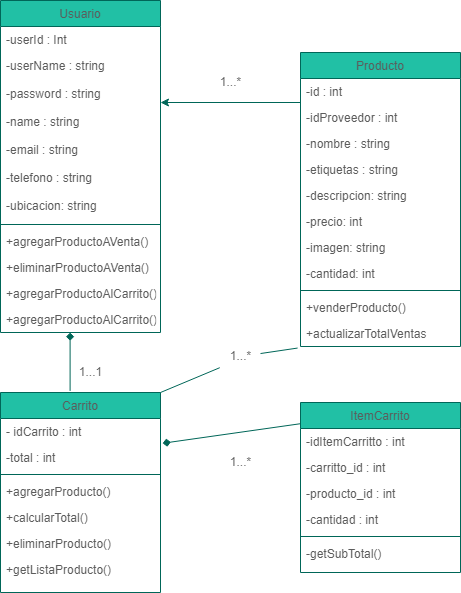
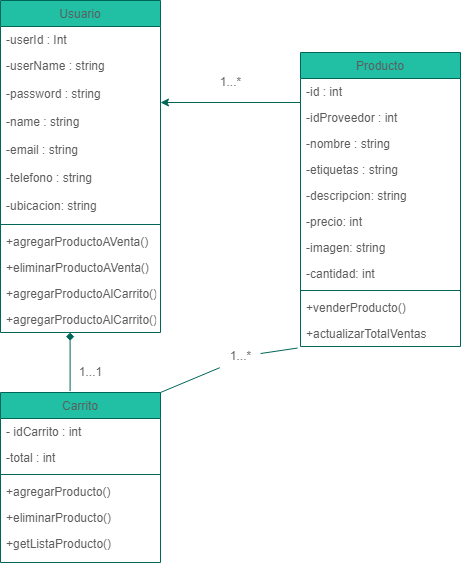
Controller para el Carrito creado. Y se elimino la Entidad ItemCarrito.

diff --git a/tienda-BackEnd/src/main/java/com/mi_tec/tiendaBackEnd/Service/ImpCarrito.java b/tienda-BackEnd/src/main/java/com/mi_tec/tiendaBackEnd/Service/ImpCarrito.java
@@ -1,62 +1,66 @@
 package com.mi_tec.tiendaBackEnd.Service;
 
 import com.mi_tec.tiendaBackEnd.Entity.ECarrito;
-import com.mi_tec.tiendaBackEnd.Entity.EItemCarrito;
 import com.mi_tec.tiendaBackEnd.Entity.EProducto;
 import com.mi_tec.tiendaBackEnd.Entity.EUsuario;
 import com.mi_tec.tiendaBackEnd.InterfaceS.ICarritoService;
 import com.mi_tec.tiendaBackEnd.Repository.ICarrito;
+import com.mi_tec.tiendaBackEnd.Repository.IProducto;
 import com.mi_tec.tiendaBackEnd.Repository.IUsuario;
 import java.util.List;
-import java.util.Optional;
-import javax.transaction.Transactional;
 import org.springframework.beans.factory.annotation.Autowired;
 import org.springframework.stereotype.Service;
 
 @Service
-@Transactional
 public class ImpCarrito implements ICarritoService{
+    
     @Autowired
-    private ICarrito carritoRepo;
+    private ICarrito carritoRepository;
+    
     @Autowired
-    private IUsuario usuarioRepo;
-
-    @Transactional
-    @Override
-    public void eliminarProductoDelCarrito(Long id_usuario, Long id_producto) {
-        Optional<EUsuario> usuarioOptional = usuarioRepo.findById(id_usuario);
-        if(usuarioOptional.isPresent()) {
-            EUsuario usuario = usuarioOptional.get();
-            List<EProducto> productos = usuario.getProductos();
-            Optional<EProducto> productoOptional = productos.stream()
-                .filter(producto -> producto.getId_producto().equals(id_producto))
-                .findFirst();
-            if(productoOptional.isPresent()) {
-                EProducto producto = productoOptional.get();
-                productos.remove(producto);
-                usuario.setProductos(productos);
-                usuarioRepo.save(usuario);
-            }
-        }
-    }
+    private IProducto productoRepository;
+    
+    @Autowired
+    private IUsuario usuarioRepository;
     
     @Override
-    public ECarrito obtenerCarritoPorId(Long id) {
-        return carritoRepo.findById(id).orElse(null);
+    public void crearCarrito(EUsuario usuario) {
+        ECarrito carrito = new ECarrito();
+        carrito.setUsuario(usuario);
+        carritoRepository.save(carrito);
     }
-
+    
+    // Método para agregar un producto al carrito
     @Override
-    public void agregarProductoAlCarrito(Long idCarrito, EProducto producto, Integer cantidad) {
-     ECarrito carrito = obtenerCarritoPorId(idCarrito);
-        List<EItemCarrito> items = carrito.getItems();
-        for (EItemCarrito item : items) {
-            if (item.getProducto().getId_producto().equals(producto.getId_producto())) {
-                item.setCantidad(item.getCantidad() + cantidad);
-                return;
-            }
-        } 
-        EItemCarrito nuevoItem = new EItemCarrito(carrito,producto, cantidad);
-        nuevoItem.setCarrito(carrito);
-        items.add(nuevoItem);
+    public void agregarProducto(Long idCarrito, Long idProducto) {
+        ECarrito carrito = carritoRepository.findById(idCarrito).orElseThrow(() -> new RuntimeException("Carrito no encontrado"));
+        EProducto producto = productoRepository.findById(idProducto).orElseThrow(() -> new RuntimeException("Producto no encontrado"));
+        
+        carrito.agregarProducto(producto);
+        carritoRepository.save(carrito);
+    }
+    
+    // Método para eliminar un producto del carrito
+    @Override
+    public void eliminarProducto(Long idCarrito, Long idProducto) {
+        ECarrito carrito = carritoRepository.findById(idCarrito).orElseThrow(() -> new RuntimeException("Carrito no encontrado"));
+        EProducto producto = productoRepository.findById(idProducto).orElseThrow(() -> new RuntimeException("Producto no encontrado"));
+        
+        carrito.eliminarProducto(producto);
+        carritoRepository.save(carrito);
+    }
+    
+    // Método para obtener los productos del carrito
+    @Override
+    public List<EProducto> getProductos(Long idCarrito) {
+        ECarrito carrito = carritoRepository.findById(idCarrito).orElseThrow(() -> new RuntimeException("Carrito no encontrado"));
+        return carrito.getProductos();
+    }
+    
+    // Método para obtener el carrito de un usuario
+    @Override
+    public ECarrito getCarritoByUsuario(Long idUsuario) {
+        EUsuario usuario = usuarioRepository.findById(idUsuario).orElseThrow(() -> new RuntimeException("Usuario no encontrado"));
+        return usuario.getCarrito();
     }
 }

diff --git a/tienda-BackEnd/src/main/java/com/mi_tec/tiendaBackEnd/Controller/CarritoController.java b/tienda-BackEnd/src/main/java/com/mi_tec/tiendaBackEnd/Controller/CarritoController.java
@@ -1,0 +1,54 @@
+package com.mi_tec.tiendaBackEnd.Controller;
+
+import com.mi_tec.tiendaBackEnd.Entity.ECarrito;
+import com.mi_tec.tiendaBackEnd.Entity.EProducto;
+import com.mi_tec.tiendaBackEnd.InterfaceS.ICarritoService;
+import java.util.List;
+import org.springframework.beans.factory.annotation.Autowired;
+import org.springframework.http.HttpStatus;
+import org.springframework.http.ResponseEntity;
+import org.springframework.web.bind.annotation.CrossOrigin;
+import org.springframework.web.bind.annotation.DeleteMapping;
+import org.springframework.web.bind.annotation.GetMapping;
+import org.springframework.web.bind.annotation.PathVariable;
+import org.springframework.web.bind.annotation.PostMapping;
+import org.springframework.web.bind.annotation.RequestMapping;
+import org.springframework.web.bind.annotation.RestController;
+
+@RestController
+@CrossOrigin
+@RequestMapping("/carrito")
+public class CarritoController {
+    
+    @Autowired
+    private ICarritoService carritoService;
+    
+    // Endpoint para agregar un producto al carrito
+    @PostMapping("/{idCarrito}/productos/{idProducto}")
+    public ResponseEntity<?> agregarProducto(@PathVariable Long idCarrito, @PathVariable Long idProducto) {
+        try {
+            carritoService.agregarProducto(idCarrito, idProducto);
+            return ResponseEntity.ok().build();
+        } catch (Exception e) {
+            return ResponseEntity.status(HttpStatus.INTERNAL_SERVER_ERROR).body("Error al agregar producto al carrito");
+        }
+    }
+    
+    // Endpoint para eliminar un producto del carrito
+    @DeleteMapping("/{idCarrito}/productos/{idProducto}")
+    public ResponseEntity<?> eliminarProducto(@PathVariable Long idCarrito, @PathVariable Long idProducto) {
+        try {
+            carritoService.eliminarProducto(idCarrito, idProducto);
+            return ResponseEntity.ok().build();
+        } catch (Exception e) {
+            return ResponseEntity.status(HttpStatus.INTERNAL_SERVER_ERROR).body("Error al eliminar producto del carrito");
+        }
+    }
+    
+    @GetMapping("/usuario/productos/{idUsuario}")
+    public ResponseEntity<List<EProducto>> getProductosDelCarritoByUsuario(@PathVariable Long idUsuario) {
+        ECarrito carrito = carritoService.getCarritoByUsuario(idUsuario);
+        List<EProducto> productos = carritoService.getProductos(carrito.getId_carrito());
+        return ResponseEntity.ok(productos);
+    }
+}

diff --git a/tienda-BackEnd/src/main/java/com/mi_tec/tiendaBackEnd/Entity/ECarrito.java b/tienda-BackEnd/src/main/java/com/mi_tec/tiendaBackEnd/Entity/ECarrito.java
@@ -1,7 +1,7 @@
 package com.mi_tec.tiendaBackEnd.Entity;
+import com.fasterxml.jackson.annotation.JsonIgnore;
 import java.util.ArrayList;
 import java.util.List;
-import javax.persistence.CascadeType;
 import lombok.Getter;
 import lombok.Setter;
 import javax.persistence.Entity;
@@ -10,8 +10,9 @@ import javax.persistence.GeneratedValue;
 import javax.persistence.GenerationType;
 import javax.persistence.Id;
 import javax.persistence.JoinColumn;
-import javax.persistence.ManyToOne;
-import javax.persistence.OneToMany;
+import javax.persistence.JoinTable;
+import javax.persistence.ManyToMany;
+import javax.persistence.OneToOne;
 import javax.persistence.Table;
 
 @Entity
@@ -22,13 +23,26 @@ public class ECarrito {
     @Id
     @GeneratedValue(strategy = GenerationType.IDENTITY)
     private Long id_carrito;
-    
-    @ManyToOne(fetch = FetchType.LAZY)
+
+    @OneToOne(fetch = FetchType.LAZY)
     @JoinColumn(name = "id_usuario")
+    @JsonIgnore
     private EUsuario usuario;
-    
-    @OneToMany(mappedBy = "carrito", cascade = CascadeType.ALL, orphanRemoval = true)
-    private List<EItemCarrito> items = new ArrayList<>();
 
+    @ManyToMany(fetch = FetchType.LAZY)
+    @JoinTable(name = "carrito_productos",
+           joinColumns = @JoinColumn(name = "id_carrito"),
+           inverseJoinColumns = @JoinColumn(name = "id_producto"))
+    private List<EProducto> productos = new ArrayList<>();
+
+    public void agregarProducto(EProducto producto) {
+        this.productos.add(producto);
+    }
+
+    public void eliminarProducto(EProducto producto) {
+        this.productos.remove(producto);
+    }
+    // Constructor vacío
+    public ECarrito() {
+    }
 }
-

diff --git a/tienda-BackEnd/src/main/java/com/mi_tec/tiendaBackEnd/Controller/ProductoController.java b/tienda-BackEnd/src/main/java/com/mi_tec/tiendaBackEnd/Controller/ProductoController.java
@@ -1,7 +1,9 @@
 package com.mi_tec.tiendaBackEnd.Controller;
 
 import com.mi_tec.tiendaBackEnd.Entity.EProducto;
+import com.mi_tec.tiendaBackEnd.Entity.EUsuario;
 import com.mi_tec.tiendaBackEnd.InterfaceS.IProductoService;
+import com.mi_tec.tiendaBackEnd.InterfaceS.IUsuarioService;
 import java.util.List;
 import org.springframework.beans.factory.annotation.Autowired;
 import org.springframework.web.bind.annotation.CrossOrigin;
@@ -11,6 +13,7 @@ import org.springframework.web.bind.annotation.PathVariable;
 import org.springframework.web.bind.annotation.PostMapping;
 import org.springframework.web.bind.annotation.PutMapping;
 import org.springframework.web.bind.annotation.RequestBody;
+import org.springframework.web.bind.annotation.RequestParam;
 import org.springframework.web.bind.annotation.RestController;
 
 @RestController
@@ -18,6 +21,8 @@ import org.springframework.web.bind.annotation.RestController;
 public class ProductoController {
     @Autowired
     IProductoService iProducS;
+    @Autowired
+    IUsuarioService iUserS;
     
     @GetMapping("/productos")
     public List<EProducto> verProductos() {
@@ -32,7 +37,9 @@ public class ProductoController {
         return iProducS.obtenerProductosPorNombre(nombre);
     }
     @PostMapping("/producto/crear")
-    public String crearProduc(@RequestBody EProducto produc) {
+    public String crearProduc(@RequestBody EProducto produc,@RequestParam Long idProveedor) {
+        EUsuario proveedor = iUserS.obtenerUsuarioPorId(idProveedor);
+        produc.setProveedor(proveedor);
         iProducS.crearProducto(produc);
         return "Productos, se creo correctamente.";
     }

diff --git a/tienda-BackEnd/src/main/java/com/mi_tec/tiendaBackEnd/Controller/UsuarioController.java b/tienda-BackEnd/src/main/java/com/mi_tec/tiendaBackEnd/Controller/UsuarioController.java
@@ -2,6 +2,7 @@ package com.mi_tec.tiendaBackEnd.Controller;
 
 import com.mi_tec.tiendaBackEnd.Entity.EUsuario;
 import com.mi_tec.tiendaBackEnd.InterfaceS.IUsuarioService;
+import com.mi_tec.tiendaBackEnd.Service.ImpCarrito;
 import java.util.List;
 import org.springframework.beans.factory.annotation.Autowired;
 import org.springframework.http.HttpStatus;
@@ -22,6 +23,9 @@ public class UsuarioController {
     @Autowired
     IUsuarioService iUserS;
     
+    @Autowired
+    ImpCarrito carritoService;
+    
     @GetMapping("/usuarios")
     public List<EUsuario> verUsuarios() {
         return iUserS.obtenerUsuarios();
@@ -32,7 +36,8 @@ public class UsuarioController {
         if (iUserS.verificarEmailDuplicado(usuario.getEmail())) {
             return ResponseEntity.status(HttpStatus.BAD_REQUEST).body("El correo ya está en uso");
         }
-        iUserS.guardarUsuario(usuario);
+         EUsuario nuevoUsuario = iUserS.guardarUsuario(usuario);
+        carritoService.crearCarrito(nuevoUsuario); // Crear un carrito para el nuevo usuario
         return ResponseEntity.ok("Usuario creado correctamente");
     }
     @GetMapping("/usuario/buscar/{id}")

diff --git a/tienda-BackEnd/src/main/java/com/mi_tec/tiendaBackEnd/InterfaceS/ICarritoService.java b/tienda-BackEnd/src/main/java/com/mi_tec/tiendaBackEnd/InterfaceS/ICarritoService.java
@@ -2,9 +2,13 @@ package com.mi_tec.tiendaBackEnd.InterfaceS;
 
 import com.mi_tec.tiendaBackEnd.Entity.ECarrito;
 import com.mi_tec.tiendaBackEnd.Entity.EProducto;
+import com.mi_tec.tiendaBackEnd.Entity.EUsuario;
+import java.util.List;
 
 public interface ICarritoService {
-    public ECarrito obtenerCarritoPorId(Long id);
-    public void agregarProductoAlCarrito(Long idCarrito, EProducto producto, Integer cantidad);
-    public void eliminarProductoDelCarrito(Long idUsuario, Long idProducto);
+    public void crearCarrito(EUsuario usuario);
+    public void agregarProducto(Long idCarrito, Long idProducto);
+    public void eliminarProducto(Long idCarrito,Long idProducto);
+    public List<EProducto> getProductos(Long idCarrito);
+    public ECarrito getCarritoByUsuario(Long idUsuario);
 }

diff --git a/tienda-BackEnd/src/main/java/com/mi_tec/tiendaBackEnd/Entity/EUsuario.java b/tienda-BackEnd/src/main/java/com/mi_tec/tiendaBackEnd/Entity/EUsuario.java
@@ -1,5 +1,6 @@
 package com.mi_tec.tiendaBackEnd.Entity;
 
+import com.fasterxml.jackson.annotation.JsonIgnore;
 import lombok.Getter;
 import lombok.Setter;
 import javax.persistence.Entity;
@@ -10,6 +11,7 @@ import javax.persistence.OneToMany;
 import javax.persistence.CascadeType;
 import javax.persistence.Table;
 import java.util.List;
+import javax.persistence.OneToOne;
 
 @Entity
 @Getter @Setter
@@ -27,5 +29,13 @@ public class EUsuario {
     private String email;
     private String telefono;
     private String ubicacion; 
-
+    
+    // Nueva relación uno a uno con la entidad ECarrito
+    @OneToOne(mappedBy = "usuario", cascade = CascadeType.ALL)
+    @JsonIgnore
+    private ECarrito carrito;
+    
+    // Constructor vacío
+    public EUsuario() {
+    }
 }

diff --git a/tienda-BackEnd/src/main/java/com/mi_tec/tiendaBackEnd/Entity/EProducto.java b/tienda-BackEnd/src/main/java/com/mi_tec/tiendaBackEnd/Entity/EProducto.java
@@ -1,5 +1,6 @@
 package com.mi_tec.tiendaBackEnd.Entity;
 
+import com.fasterxml.jackson.annotation.JsonIgnore;
 import lombok.Getter;
 import lombok.Setter;
 import javax.persistence.Entity;
@@ -19,6 +20,7 @@ public class EProducto {
     @GeneratedValue(strategy = GenerationType.IDENTITY)
     private Long id_producto;
     
+    @JsonIgnore
     @ManyToOne(fetch = FetchType.LAZY)
     @JoinColumn(name = "id_proveedor")
     private EUsuario proveedor;
